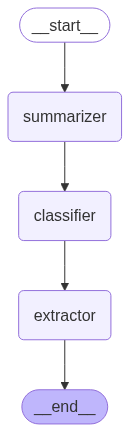
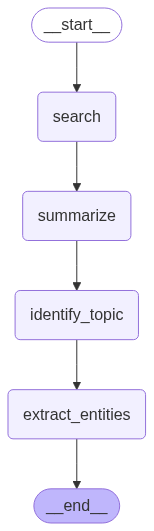
Change the input to a single query, and use TavilySearch to search for the news article as input for the pipeline

Changed region(s): [[0.0308, 0.0, 0.9538, 0.9931], [0.2154, 0.0, 0.2462, 0.0301]]

diff --git a/scripts/main.py b/scripts/main.py
@@ -3,10 +3,12 @@ import config  # your config.py with API keys
 
 # Set environment variables for API keys
 os.environ["GOOGLE_API_KEY"] = config.GOOGLE_API_KEY
+os.environ["TAVILY_API_KEY"] = config.TAVILY_API_KEY
 
 from langchain.chat_models import init_chat_model
 from langgraph.graph import StateGraph, END
 from langchain.prompts import PromptTemplate
+from langchain_tavily import TavilySearch
 
 # Define prompt templates
 SUMMARY_PROMPT = PromptTemplate.from_template("""
@@ -40,9 +42,10 @@ class NewsPipeline:
         Initialize the NewsPipeline with a language model instance and build the processing pipeline graph.
         """
         self.llm = llm
-        self.pipeline = self._build_pipeline()
+        self.search_tool = TavilySearch()
+        self.pipeline = self.build_pipeline()
 
-    def _build_pipeline(self):
+    def build_pipeline(self):
         """
         Construct the StateGraph pipeline by defining nodes and their execution flow.
         Returns the compiled pipeline ready for invocation.
@@ -50,19 +53,40 @@ class NewsPipeline:
         graph = StateGraph(dict)
 
         # Add nodes representing each step of the pipeline
-        graph.add_node("summarizer", self.summarize)
-        graph.add_node("classifier", self.classify_topic)
-        graph.add_node("extractor", self.extract_entities)
+        graph.add_node("search", self.search)
+        graph.add_node("summarize", self.summarize)
+        graph.add_node("identify_topic", self.identify_topic)
+        graph.add_node("extract_entities", self.extract_entities)
 
         # Define the execution order of nodes
-        graph.set_entry_point("summarizer")
-        graph.add_edge("summarizer", "classifier")
-        graph.add_edge("classifier", "extractor")
-        graph.add_edge("extractor", END)
+        graph.set_entry_point("search")
+        graph.add_edge("search", "summarize")
+        graph.add_edge("summarize", "identify_topic")
+        graph.add_edge("identify_topic", "extract_entities")
+        graph.add_edge("extract_entities", END)
 
         # Compile and return the executable graph
         pipeline = graph.compile()
         return pipeline
+
+    def search(self, state):
+        """
+        Use Tavily to search for news articles based on the query.
+        Input: state dict containing 'query'
+        Output: updated state dict including 'article' and 'url'
+        """
+        query = state['query']
+        results = self.search_tool.run(query)["results"]
+        if results:
+            # Pick the first result for now
+            title = results[0]["title"]
+            article = results[0]["content"]
+            url = results[0]["url"]
+        else:
+            title = "No relevant articles found."
+            article = ""
+            url = ""
+        return {**state, "title": title, "article": article, "url": url}
 
     def summarize(self, state):
         """
@@ -73,7 +97,7 @@ class NewsPipeline:
         summary = self.llm.invoke(SUMMARY_PROMPT.format(article=state['article'])).content.strip()
         return {**state, "summary": summary}
 
-    def classify_topic(self, state):
+    def identify_topic(self, state):
         """
         Identify the main topic of the article.
         Input: state dict containing 'article'
@@ -91,20 +115,19 @@ class NewsPipeline:
         entities = self.llm.invoke(ENTITIES_PROMPT.format(article=state['article'])).content.strip()
         return {**state, "entities": entities}
 
-    def run(self, article):
+    def run(self, query):
         """
-        Run the entire pipeline on a single article text.
+        Run the entire pipeline on a single query.
         Returns the final result dictionary with all generated outputs.
         """
-        return self.pipeline.invoke({"article": article})
+        return self.pipeline.invoke({"query": query})
 
     def print_output(self, result):
         """
         Nicely print the pipeline output dictionary.
         """
-        print("\n--- OUTPUT ---")
         for k, v in result.items():
-            print(f"{k}:\n{v}\n")
+            print(f"\n--- {k.upper()} ---\n{v}")
 
     def save_graph(self, path):
         """
@@ -115,21 +138,20 @@ class NewsPipeline:
             f.write(png_bytes)
 
 if __name__ == "__main__":
+    # Search query input
+    query = "Tesla earnings Q2 2025"
+
     # Initialize the language model with Google Gemini 2.0 flash model
     llm = init_chat_model("google_genai:gemini-2.0-flash")
     
     # Instantiate the news pipeline with the language model
     pipeline = NewsPipeline(llm)
 
-    # Example article text to process
-    article_text = "UK Prime Minister Rishi Sunak has announced a surprise election date..."
-
     # Run the pipeline and get the result
-    result = pipeline.run(article_text)
+    result = pipeline.run(query)
 
     # Print the results
     pipeline.print_output(result)
 
-    # Save the graph visualization to file
-    path = "graph.png"
-    pipeline.save_graph(path)
+    # (Dev) Save the graph visualization to file
+    pipeline.save_graph("graph.png")
